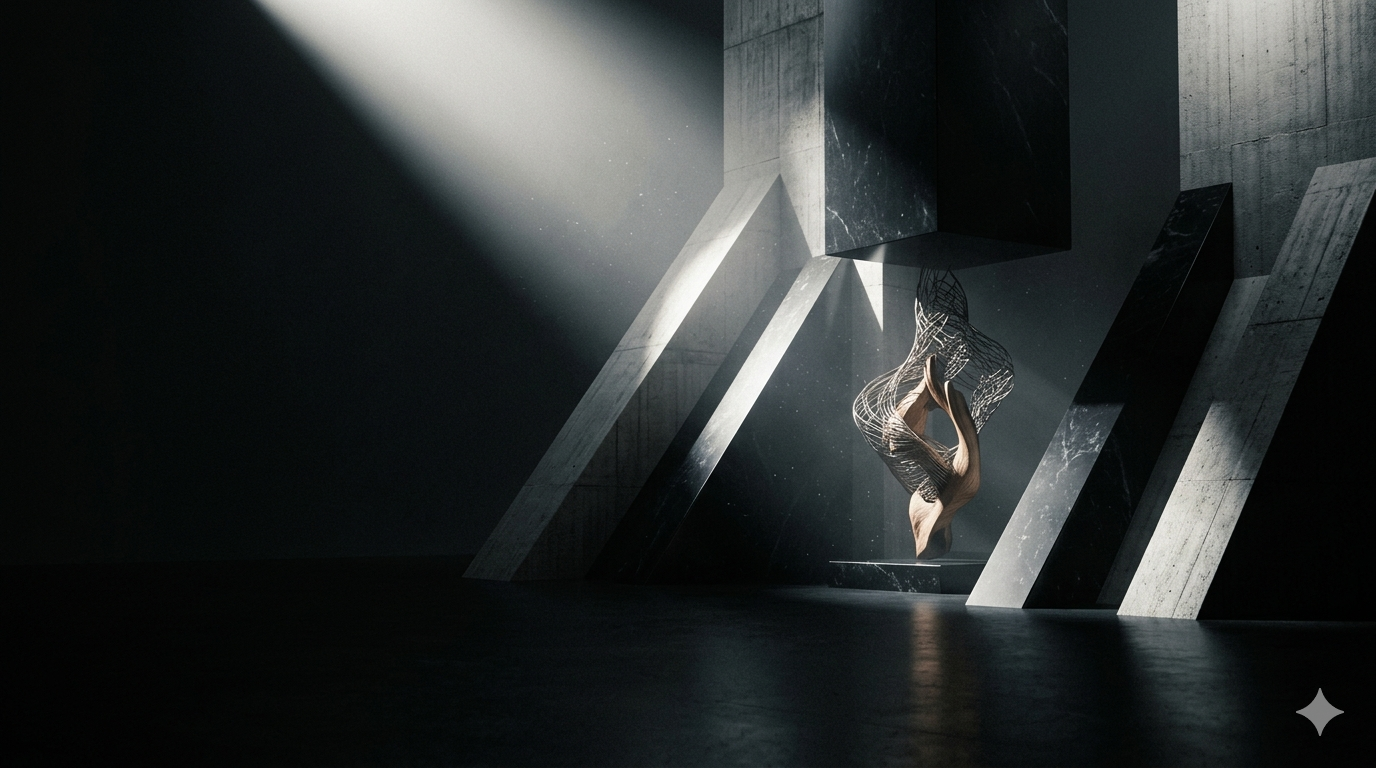
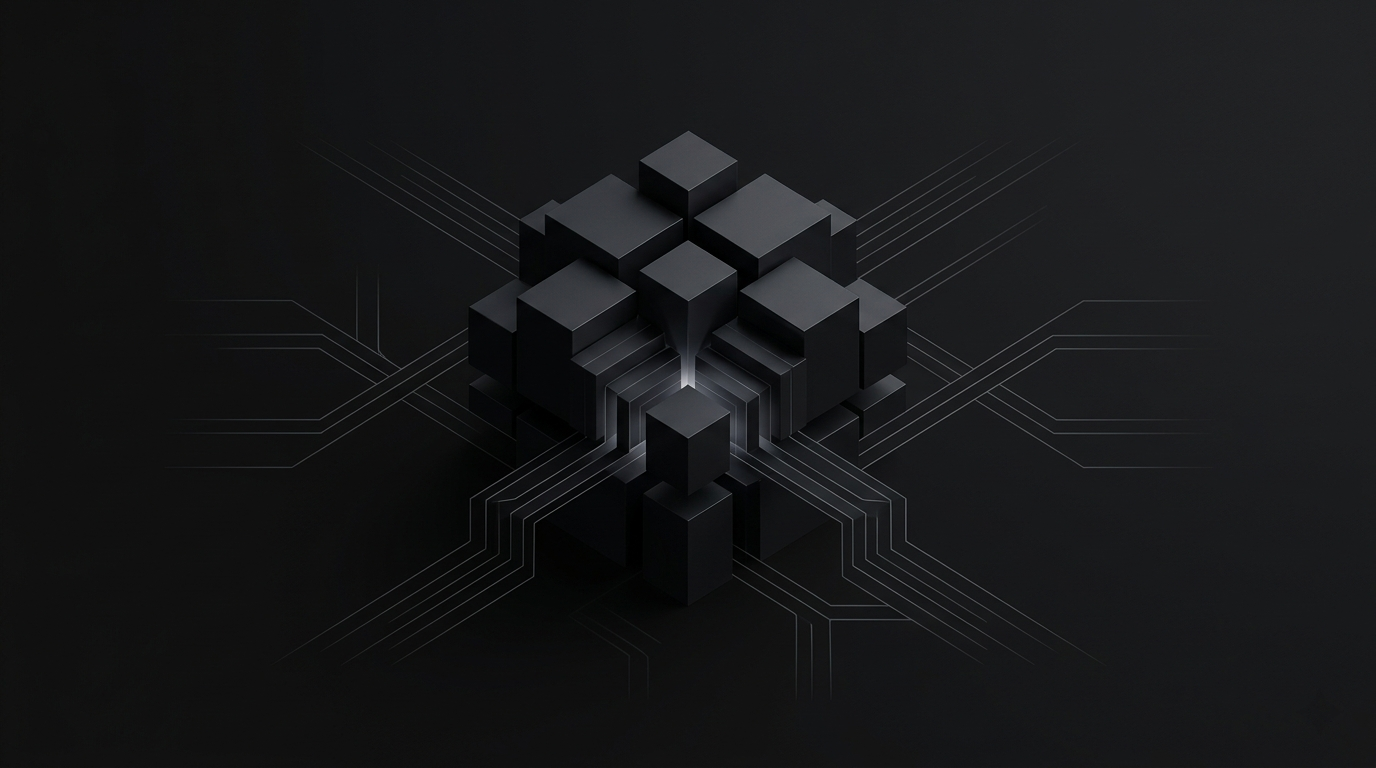
done changings

diff --git a/src/components/cursor/cursor.tsx b/src/components/cursor/cursor.tsx
@@ -98,7 +98,7 @@ const SPINNER_PATH = `M ${CURSOR_SIZE / 2} 4 A ${CURSOR_SIZE / 2 - 4} ${CURSOR_S
 const CLICKABLE_SELECTOR =
   'a, button, [role="button"], [data-cursor="pointer"], summary, select, [data-slot="radio-group-item"], .cursor-pointer'
 const HIDDEN_SELECTOR =
-  '[data-cursor="hidden"], #magnetic-work-btn, #magnetic-portfolio-cta, #magnetic-cta-btn, #magnetic-cta, #magnetic-cta-zone, #architect-magnetic-btn'
+  '[data-cursor="hidden"], #magnetic-work-btn, #magnetic-portfolio-cta, #magnetic-blog-cta, #magnetic-cta-btn, #magnetic-cta, #magnetic-cta-zone, #architect-magnetic-btn'
 const GRAB_SELECTOR =
   '[data-cursor="grab"], #custom-scrollbar, #scrollbar-thumb'
 const HOVER_SYNC_INTERVAL_MS = 66